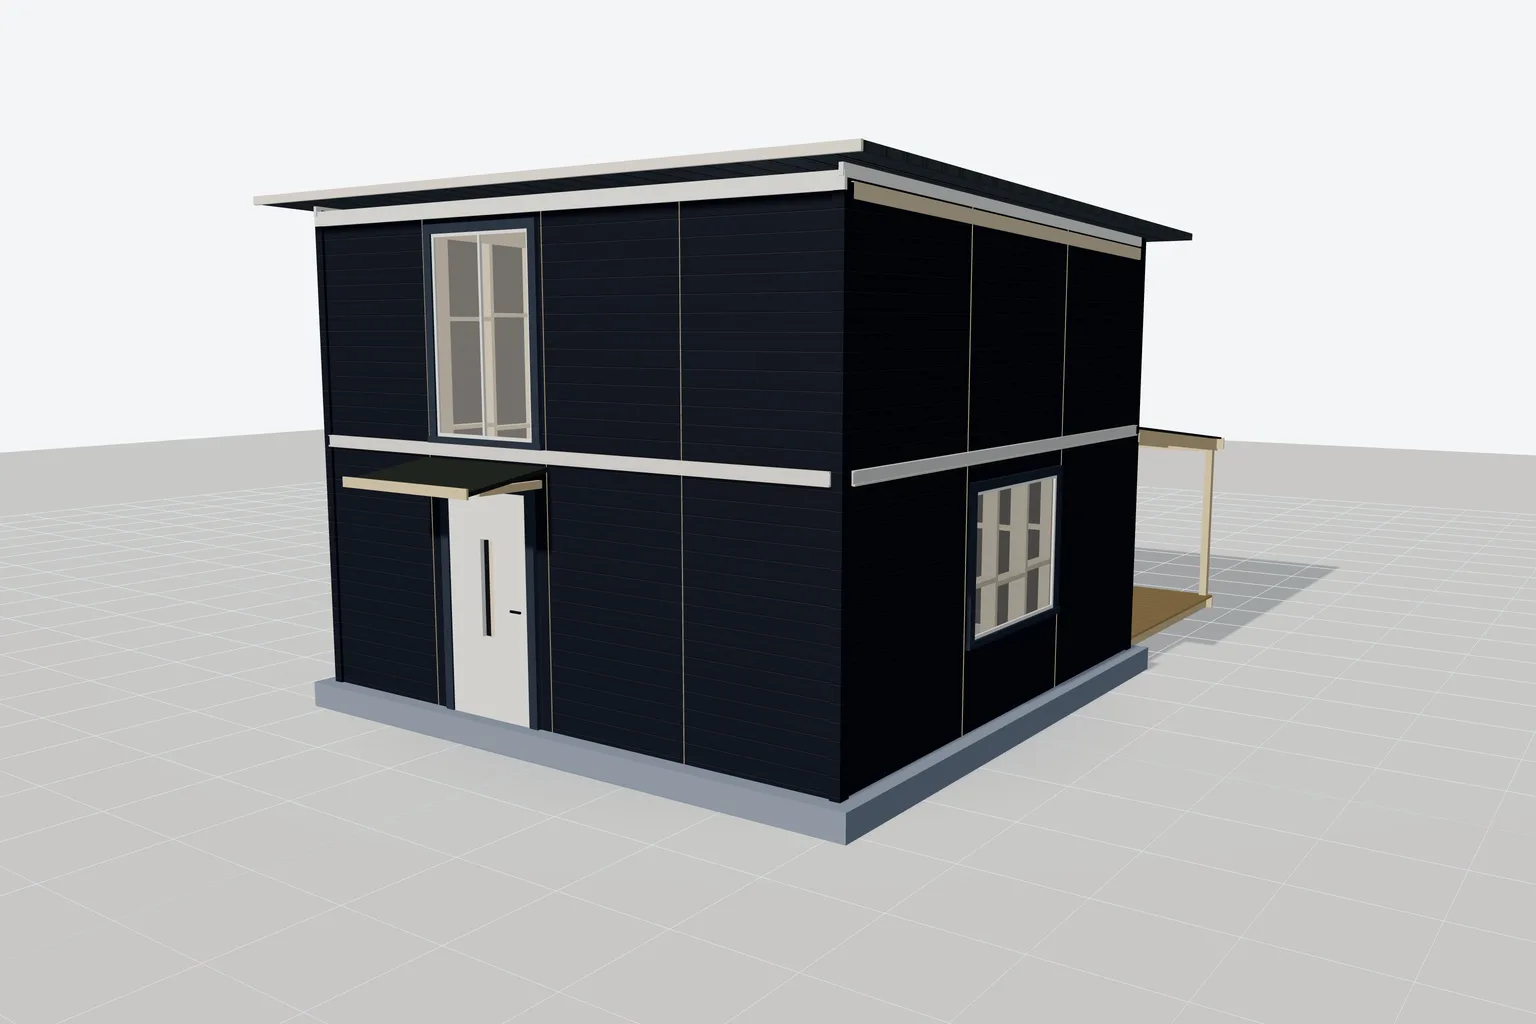
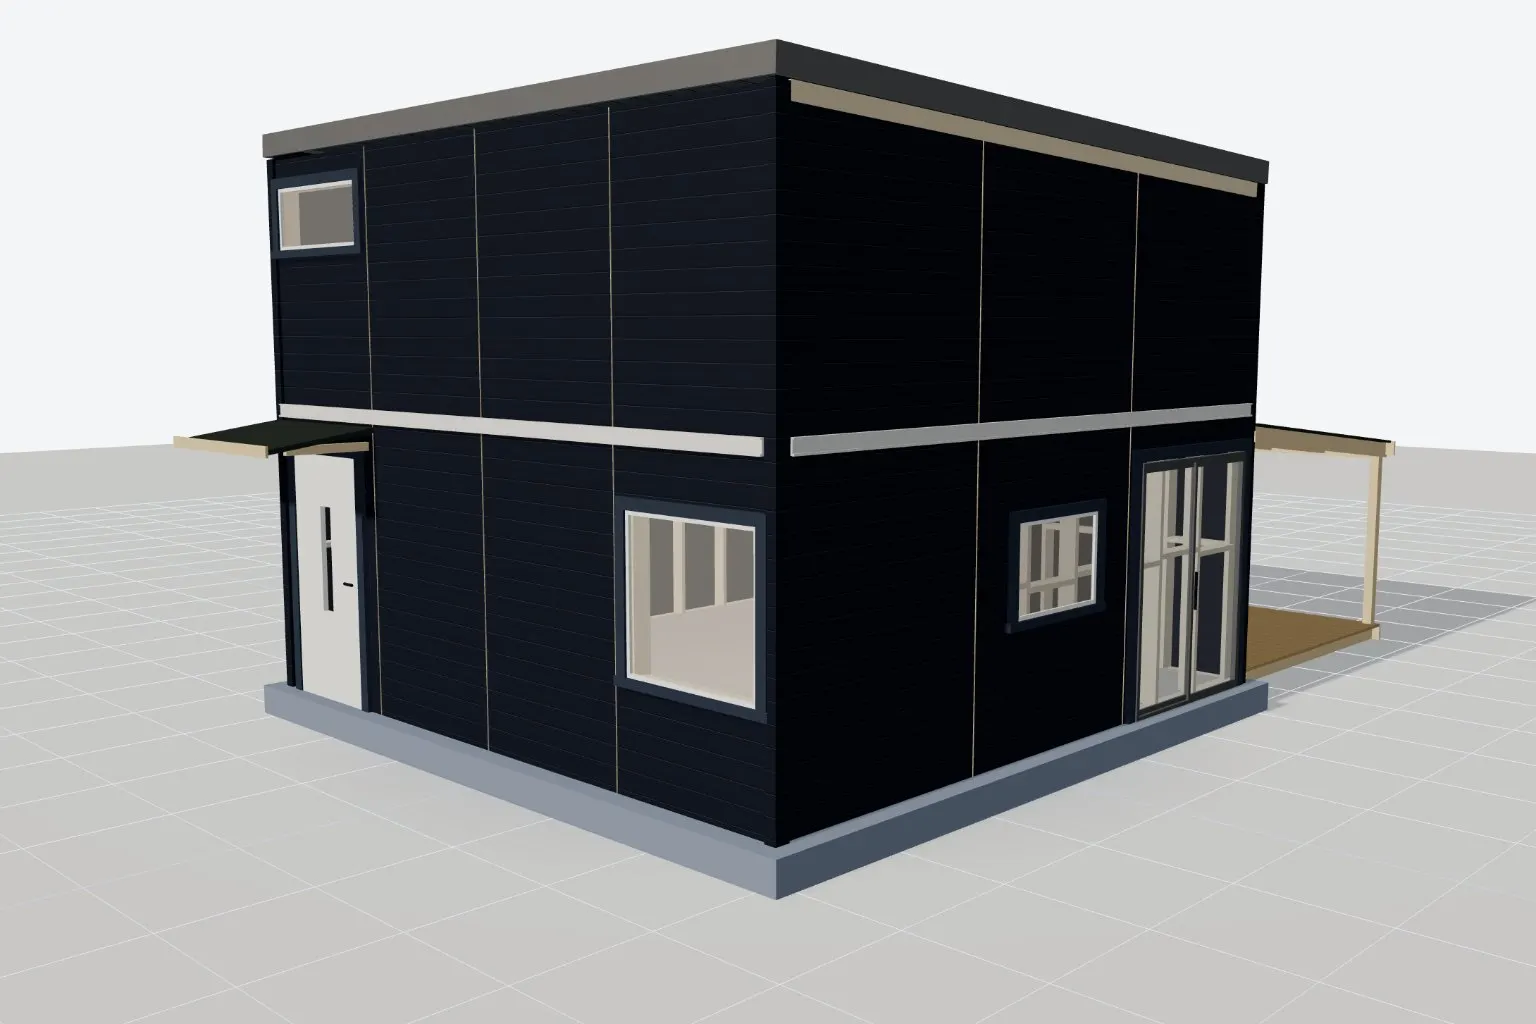
feat: add flush roof option and update related configurations in HouseCanvas and HouseScene

Changed region(s): [[0.0938, 0.0312, 1.0, 0.875]]

diff --git a/src/three-engine/HouseScene.ts b/src/three-engine/HouseScene.ts
@@ -65,6 +65,8 @@ export interface SceneConfig {
   isFullscreen?: boolean;
   /** Small roof over each exterior door. */
   doorCanopy?: boolean;
+  /** Roof sheet ends at the walls. A metal band covers the edge and the wall top. */
+  flushRoof?: boolean;
   /** Decks around the house. At most one on each side. */
   terraces?: HouseTerrace[];
 }
@@ -77,6 +79,7 @@ interface OutsideAnchor {
   width: number;
   head: number;
   wall: 'front' | 'back' | 'left' | 'right';
+  itemId?: string;
 }
 
 export class HouseScene {
@@ -229,6 +232,7 @@ export class HouseScene {
       selectedSlotId: initialConfig?.selectedSlotId ?? null,
       wallSlots: initialConfig?.wallSlots ?? {},
       doorCanopy: initialConfig?.doorCanopy ?? false,
+      flushRoof: initialConfig?.flushRoof ?? false,
       terraces: initialConfig?.terraces ?? []
     };
 
@@ -1508,7 +1512,9 @@ export class HouseScene {
 
       const belt = this.beltRise(h);
       const upperId = `${wallSide}-${i}u`;
-      const split = Boolean(this.currentConfig.wallSlots[upperId]) && panelWallH > belt + 0.4;
+      const lowerSlot = this.currentConfig.wallSlots[slotId];
+      const tallPortrait = lowerSlot?.type === 'window' && lowerSlot.itemId === PORTRAIT_PANORAMA;
+      const split = !tallPortrait && Boolean(this.currentConfig.wallSlots[upperId]) && panelWallH > belt + 0.4;
       const bands = split
         ? [
             { slotId, height: belt, base: baseElev, upper: false, reachesRoof: false },
@@ -1545,8 +1551,8 @@ export class HouseScene {
       }
     }
 
-    // Top eave trim and fascia to ensure 100% gapless junction with roof underside
-    if (wallSide === 'left' || wallSide === 'right') {
+    // A flush metal roof covers the wall top with its own band.
+    if (!this.currentConfig.flushRoof && (wallSide === 'left' || wallSide === 'right')) {
       const roof = this.currentConfig.roofType;
       if (!this.interiorCut() && (roof === 'pulpettak' || roof === 'flackt')) {
         const pitch = this.alongWallSlope('left');
@@ -1560,7 +1566,7 @@ export class HouseScene {
         eavesTrim.castShadow = true;
         this.wallsGroup.add(eavesTrim);
       }
-    } else if (wallSide === 'front') {
+    } else if (!this.currentConfig.flushRoof && wallSide === 'front') {
       if (!this.interiorCut()) {
         const frontTrimGeo = new THREE.BoxGeometry(w + 0.06, 0.14, 0.035);
         const frontTrim = new THREE.Mesh(frontTrimGeo, trimMat);
@@ -1568,7 +1574,7 @@ export class HouseScene {
         frontTrim.castShadow = true;
         this.wallsGroup.add(frontTrim);
       }
-    } else if (wallSide === 'back') {
+    } else if (!this.currentConfig.flushRoof && wallSide === 'back') {
       const backTrimGeo = new THREE.BoxGeometry(w + 0.05, 0.12, 0.03);
       const backTrim = new THREE.Mesh(backTrimGeo, trimMat);
       backTrim.position.set(0, rearH - 0.06, -d / 2 - 0.01);
@@ -1653,27 +1659,73 @@ export class HouseScene {
       this.wallsGroup.add(mesh);
     };
 
-    const place = (length: number, axis: 'x' | 'z', sign: number, claddingOuter: number) => {
+    const place = (
+      length: number,
+      axis: 'x' | 'z',
+      sign: number,
+      claddingOuter: number,
+      gaps: { center: number; half: number }[]
+    ) => {
       const center = claddingOuter + sign * (standOff + proj / 2);
       const lip = center + sign * (proj / 2 + 0.006);
       const shade = claddingOuter + sign * 0.004;
-      if (axis === 'z') {
-        add([length, faceH, proj], [0, y, center], faceMat);
-        add([length, 0.01, proj + 0.012], [0, y + faceH / 2 - 0.004, center + sign * 0.006], lipMat);
-        add([length, 0.016, 0.018], [0, y - faceH / 2 + 0.006, lip], lipMat);
-        add([length, 0.03, 0.004], [0, y - faceH / 2 - 0.012, shade], shadeMat);
-      } else {
-        add([proj, faceH, length], [center, y, 0], faceMat);
-        add([proj + 0.012, 0.01, length], [center + sign * 0.006, y + faceH / 2 - 0.004, 0], lipMat);
-        add([0.018, 0.016, length], [lip, y - faceH / 2 + 0.006, 0], lipMat);
-        add([0.004, 0.03, length], [shade, y - faceH / 2 - 0.012, 0], shadeMat);
+      const start = -length / 2;
+      const end = length / 2;
+      const cuts = gaps
+        .map((gap) => [Math.max(start, gap.center - gap.half), Math.min(end, gap.center + gap.half)] as [number, number])
+        .filter(([from, to]) => to > from + 0.02)
+        .sort((a, b) => a[0] - b[0]);
+      const runs: [number, number][] = [];
+      let cursor = start;
+      for (const [from, to] of cuts) {
+        if (from > cursor + 0.05) runs.push([cursor, from]);
+        cursor = Math.max(cursor, to);
+      }
+      if (end > cursor + 0.05) runs.push([cursor, end]);
+
+      for (const [from, to] of runs) {
+        const seg = to - from;
+        const mid = (from + to) / 2;
+        if (axis === 'z') {
+          add([seg, faceH, proj], [mid, y, center], faceMat);
+          add([seg, 0.01, proj + 0.012], [mid, y + faceH / 2 - 0.004, center + sign * 0.006], lipMat);
+          add([seg, 0.016, 0.018], [mid, y - faceH / 2 + 0.006, lip], lipMat);
+          add([seg, 0.03, 0.004], [mid, y - faceH / 2 - 0.012, shade], shadeMat);
+        } else {
+          add([proj, faceH, seg], [center, y, mid], faceMat);
+          add([proj + 0.012, 0.01, seg], [center + sign * 0.006, y + faceH / 2 - 0.004, 0], lipMat);
+          add([0.018, 0.016, seg], [lip, y - faceH / 2 + 0.006, mid], lipMat);
+          add([0.004, 0.03, seg], [shade, y - faceH / 2 - 0.012, mid], shadeMat);
+        }
       }
     };
 
-    place(w - inset * 2, 'z', 1, d / 2);
-    place(w - inset * 2, 'z', -1, -d / 2);
-    place(d - face * 2, 'x', -1, -w / 2);
-    place(d - face * 2, 'x', 1, w / 2);
+    place(w - inset * 2, 'z', 1, d / 2, this.portraitBeltGaps('front', w, 4));
+    place(w - inset * 2, 'z', -1, -d / 2, this.portraitBeltGaps('back', w, 4));
+    place(d - face * 2, 'x', -1, -w / 2, this.portraitBeltGaps('left', d, 3));
+    place(d - face * 2, 'x', 1, w / 2, this.portraitBeltGaps('right', d, 3));
+  }
+
+  /** Where a portrait panorama crosses the mid-rail, so the belt stops at the frame. */
+  private portraitBeltGaps(wall: 'front' | 'back' | 'left' | 'right', span: number, count: number) {
+    const frontOrBack = wall === 'front' || wall === 'back';
+    const endInset = frontOrBack ? 0 : 0.017;
+    const panelWidth = (frontOrBack ? span : span - endInset * 2) / count;
+    const gaps: { center: number; half: number }[] = [];
+    for (let i = 0; i < count; i += 1) {
+      const slot = this.currentConfig.wallSlots[`${wall}-${i}`];
+      if (slot?.type !== 'window' || slot.itemId !== PORTRAIT_PANORAMA) continue;
+      const center = wall === 'front'
+        ? -span / 2 + panelWidth / 2 + i * panelWidth
+        : wall === 'back'
+          ? span / 2 - panelWidth / 2 - i * panelWidth
+          : wall === 'left'
+            ? span / 2 - endInset - panelWidth / 2 - i * panelWidth
+            : -span / 2 + endInset + panelWidth / 2 + i * panelWidth;
+      const pane = portraitPane(panelWidth, 4, false);
+      gaps.push({ center, half: pane.width / 2 + 0.02 });
+    }
+    return gaps;
   }
 
   /** Rise of the roof along a side wall, in metres of height per metre of local panel X. */
@@ -2108,7 +2160,9 @@ export class HouseScene {
     let host = index;
     let partner: number | null = null;
     const wideSlider = slot?.itemId === 'SKJUTDORR' || slot?.itemId === 'SKJUTDORR3';
-    if (wideSlider) {
+    const clear = panelWidth - 0.09 * 2 - 0.045 * 2;
+    const needsNeighbour = slot?.itemId === 'SKJUTDORR3' ? clear < 2.4 : clear < 1.65;
+    if (wideSlider && needsNeighbour) {
       partner = index + 1 < count ? index + 1 : index > 0 ? index - 1 : null;
     } else if (slot?.coveredBy) {
       const hostSlot = slots[slot.coveredBy];
@@ -2171,6 +2225,14 @@ export class HouseScene {
       const sill = panelBase;
       const head = sill + doorH;
       return { winW: doorW, winH: doorH, winY: (sill + head) / 2 - centerY, sill, head };
+    }
+
+    if (itemId === 'standard-single' && !isUpper && panelWidth >= 1.8) {
+      const width = Math.min(1.05, winW);
+      const height = 0.72;
+      const sill = panelBase + 1.05;
+      const head = sill + height;
+      return { winW: width, winH: height, winY: (sill + head) / 2 - centerY, sill, head };
     }
 
     if (itemId === PORTRAIT_PANORAMA) {
@@ -2263,7 +2325,8 @@ export class HouseScene {
           doorX: wide?.x ?? 0,
           width: opening.winW,
           head: opening.head,
-          wall
+          wall,
+          itemId: slot.itemId
         });
       }
     }
@@ -2524,6 +2587,7 @@ export class HouseScene {
     if (canopyOn) {
       for (const door of doors) {
         if (covered.has(door.wall)) continue;
+        if (door.itemId === 'SKJUTDORR' || door.itemId === 'SKJUTDORR3') continue;
         this.addDoorCanopy(door, timber, roofMat);
       }
     }
@@ -3065,7 +3129,7 @@ export class HouseScene {
 
   private buildRoof(w: number, d: number, h: number) {
     const { roofType } = this.currentConfig;
-    const overhang = 0.4;
+    const overhang = this.currentConfig.flushRoof ? 0.02 : 0.4;
     const roofMat = this.roofSurfaceMaterial();
 
     const whiteTrimMat = new THREE.MeshStandardMaterial({
@@ -3076,7 +3140,10 @@ export class HouseScene {
     if (isGableRoof(roofType)) {
       this.addGableRoof(w, d, h, overhang, roofMat, whiteTrimMat);
     } else if (roofType === 'flackt') {
-      this.addShallowRoof(w, d, h, overhang, 2, roofMat, whiteTrimMat);
+      const frameMat = this.currentConfig.flushRoof
+        ? new THREE.MeshStandardMaterial({ color: '#d5d8dc', roughness: 0.32, metalness: 0.72 })
+        : whiteTrimMat;
+      this.addShallowRoof(w, d, h, overhang, 2, roofMat, frameMat);
     } else {
       // Pulpettak. The slab, barge boards, and fascia share one rotated assembly
       // so each board meets the next at an edge instead of occupying the same face.
@@ -3184,14 +3251,30 @@ export class HouseScene {
     roofMesh.receiveShadow = true;
     assembly.add(roofMesh);
 
-    const fasciaT = 0.03;
-    const fascia = new THREE.Mesh(
-      new THREE.BoxGeometry(roofW + 0.02, roofThick + 0.01, fasciaT),
-      trimMat
-    );
-    fascia.position.set(0, -0.004, slopeLen / 2 + fasciaT / 2 + 0.001);
-    fascia.castShadow = true;
-    assembly.add(fascia);
+    const fasciaT = 0.028;
+    if (overhang < 0.08) {
+      const drop = 0.12;
+      const frameH = roofThick + drop;
+      const frameY = -drop / 2 + 0.01;
+      const band = (width: number, height: number, depth: number, x: number, z: number) => {
+        const piece = new THREE.Mesh(new THREE.BoxGeometry(width, height, depth), trimMat);
+        piece.position.set(x, frameY, z);
+        piece.castShadow = true;
+        assembly.add(piece);
+      };
+      band(roofW + fasciaT * 2, frameH, fasciaT, 0, slopeLen / 2 + fasciaT / 2);
+      band(roofW + fasciaT * 2, frameH, fasciaT, 0, -(slopeLen / 2 + fasciaT / 2));
+      band(fasciaT, frameH, slopeLen, -(roofW / 2 + fasciaT / 2), 0);
+      band(fasciaT, frameH, slopeLen, roofW / 2 + fasciaT / 2, 0);
+    } else {
+      const fascia = new THREE.Mesh(
+        new THREE.BoxGeometry(roofW + 0.02, roofThick + 0.01, fasciaT),
+        trimMat
+      );
+      fascia.position.set(0, -0.004, slopeLen / 2 + fasciaT / 2 + 0.001);
+      fascia.castShadow = true;
+      assembly.add(fascia);
+    }
 
     this.roofGroup.add(assembly);
   }

diff --git a/src/store/useConfigStore.ts b/src/store/useConfigStore.ts
@@ -202,7 +202,7 @@ export const SIZE_OPTIONS: SizeOption[] = [
     height: 4800,
     areaSqMeters: 36.0,
     basePrice: 138000,
-    desc: '6000 × 6000 mm. Kvadratisk kub med panoramafönster, skjutdörr mot en täckt altan och skärmtak över entrén.'
+    desc: '6000 × 6000 mm. Dörr och litet fönster till vänster, stort fönster och loft till höger, skjutdörr i det bakre hörnet.'
   }
 ];
 
@@ -474,11 +474,12 @@ export function cubeWallSlots(): Record<string, WallSlot> {
     slot.itemId = undefined;
     slot.coveredBy = undefined;
   }
-  slots['front-1'] = { ...slots['front-1'], type: 'door', itemId: 'LERVIK' };
-  slots['front-1u'] = { ...slots['front-1u'], type: 'window', itemId: 'panorama-portrait' };
-  slots['right-1'] = { ...slots['right-1'], type: 'window', itemId: 'panorama' };
-  slots['back-1'] = { ...slots['back-1'], type: 'door', itemId: 'SKJUTDORR' };
-  slots['back-2'] = { ...slots['back-2'], type: 'empty', itemId: undefined, coveredBy: 'back-1' };
+  slots['front-0'] = { ...slots['front-0'], type: 'door', itemId: 'LERVIK' };
+  slots['front-0u'] = { ...slots['front-0u'], type: 'window', itemId: 'standard-single' };
+  slots['front-3'] = { ...slots['front-3'], type: 'window', itemId: 'panorama' };
+  slots['left-1'] = { ...slots['left-1'], type: 'window', itemId: 'panorama-portrait' };
+  slots['right-0'] = { ...slots['right-0'], type: 'door', itemId: 'SKJUTDORR' };
+  slots['right-1'] = { ...slots['right-1'], type: 'window', itemId: 'standard-single' };
   return slots;
 }
 
@@ -567,6 +568,8 @@ export const useConfigStore = defineStore('config', () => {
   const activeWindow = ref<string>('standard-single');
   const activeGate = ref<string>('none');
   const doorCanopy = ref(false);
+  /** Tin roof ends at the walls, with a metal band over the roof edge. */
+  const flushRoof = ref(false);
   const terraces = ref<HouseTerrace[]>([]);
   const facing = ref<CompassFacing>('south');
   const sunHour = ref(12);
@@ -680,6 +683,7 @@ export const useConfigStore = defineStore('config', () => {
       activeWindow: activeWindow.value,
       activeGate: activeGate.value,
       doorCanopy: doorCanopy.value,
+      flushRoof: flushRoof.value,
       terraces: terraces.value.map((item) => ({ ...item })),
       facing: facing.value,
       sunHour: sunHour.value,
@@ -752,6 +756,7 @@ export const useConfigStore = defineStore('config', () => {
       if (data.activeWindow) activeWindow.value = data.activeWindow;
       if (data.activeGate) activeGate.value = data.activeGate;
       doorCanopy.value = data.doorCanopy === true;
+      flushRoof.value = data.flushRoof === true;
       terraces.value = Array.isArray(data.terraces) ? acceptTerraces(data.terraces) : terracesFromLegacy(data);
       facing.value = COMPASS_FACINGS.includes(data.facing) ? data.facing : 'south';
       sunHour.value = clampSunHour(typeof data.sunHour === 'number' ? data.sunHour : 12);
@@ -991,12 +996,16 @@ export const useConfigStore = defineStore('config', () => {
     panelOrientation.value = 'liggande';
     verticalDoorBay.value = true;
     doorCanopy.value = true;
+    flushRoof.value = true;
     terraces.value = [{ side: 'back', depth: 3, span: 'full', roof: true }];
     activeRoof.value = 'flackt';
     roofCovering.value = 'metal';
     activeMaterial.value = 'black';
     activePaintId.value = null;
-    activeLoft.value = 'none';
+    activeLoft.value = 'sleeping';
+    loftCount.value = 'ett';
+    loftPlacement.value = 'hoger';
+    selectedLoftSize.value = 14.6;
     wallSlots.value = cubeWallSlots();
     activeDoor.value = 'LERVIK';
     activeWindow.value = 'panorama';
@@ -1007,6 +1016,9 @@ export const useConfigStore = defineStore('config', () => {
     panelOrientation.value = 'staende';
     verticalDoorBay.value = false;
     doorCanopy.value = false;
+    flushRoof.value = false;
+    activeLoft.value = 'none';
+    loftPlacement.value = 'vanster';
     terraces.value = [];
     activeRoof.value = 'pulpettak';
     roofCovering.value = 'felt';
@@ -1540,6 +1552,7 @@ export const useConfigStore = defineStore('config', () => {
     activeWindow,
     activeGate,
     doorCanopy,
+    flushRoof,
     terraces,
     facing,
     sunHour,

diff --git a/src/components/HouseCanvas.vue b/src/components/HouseCanvas.vue
@@ -162,6 +162,7 @@ onMounted(() => {
       selectedSlotId: store.selectedSlotId,
       wallSlots: store.wallSlots,
       doorCanopy: store.doorCanopy,
+      flushRoof: store.flushRoof,
       terraces: store.terraces.map((item) => ({ ...item }))
     });
 
@@ -358,10 +359,11 @@ watch(
 
 // Watch roof type
 watch(
-  () => store.activeRoof,
-  (roof) => {
+  [() => store.activeRoof, () => store.flushRoof],
+  ([roof, flushRoof]) => {
     engine?.updateConfig({
-      roofType: roof as RoofId
+      roofType: roof as RoofId,
+      flushRoof
     });
   }
 );

diff --git a/src/i18n/index.ts b/src/i18n/index.ts
@@ -1132,7 +1132,7 @@ const en = {
     'size-cube': {
       name: 'Modern Scandi cube',
       badge: 'Cube',
-      desc: '6000 × 6000 mm. A square cube with a panorama window, a sliding door onto a covered terrace, and a roof over the entrance.'
+      desc: '6000 × 6000 mm. Door and a small window on the left, a large window and loft on the right, and a sliding door at the back corner.'
     },
     pulpettak: {
       name: 'Mono-pitch 12°',
